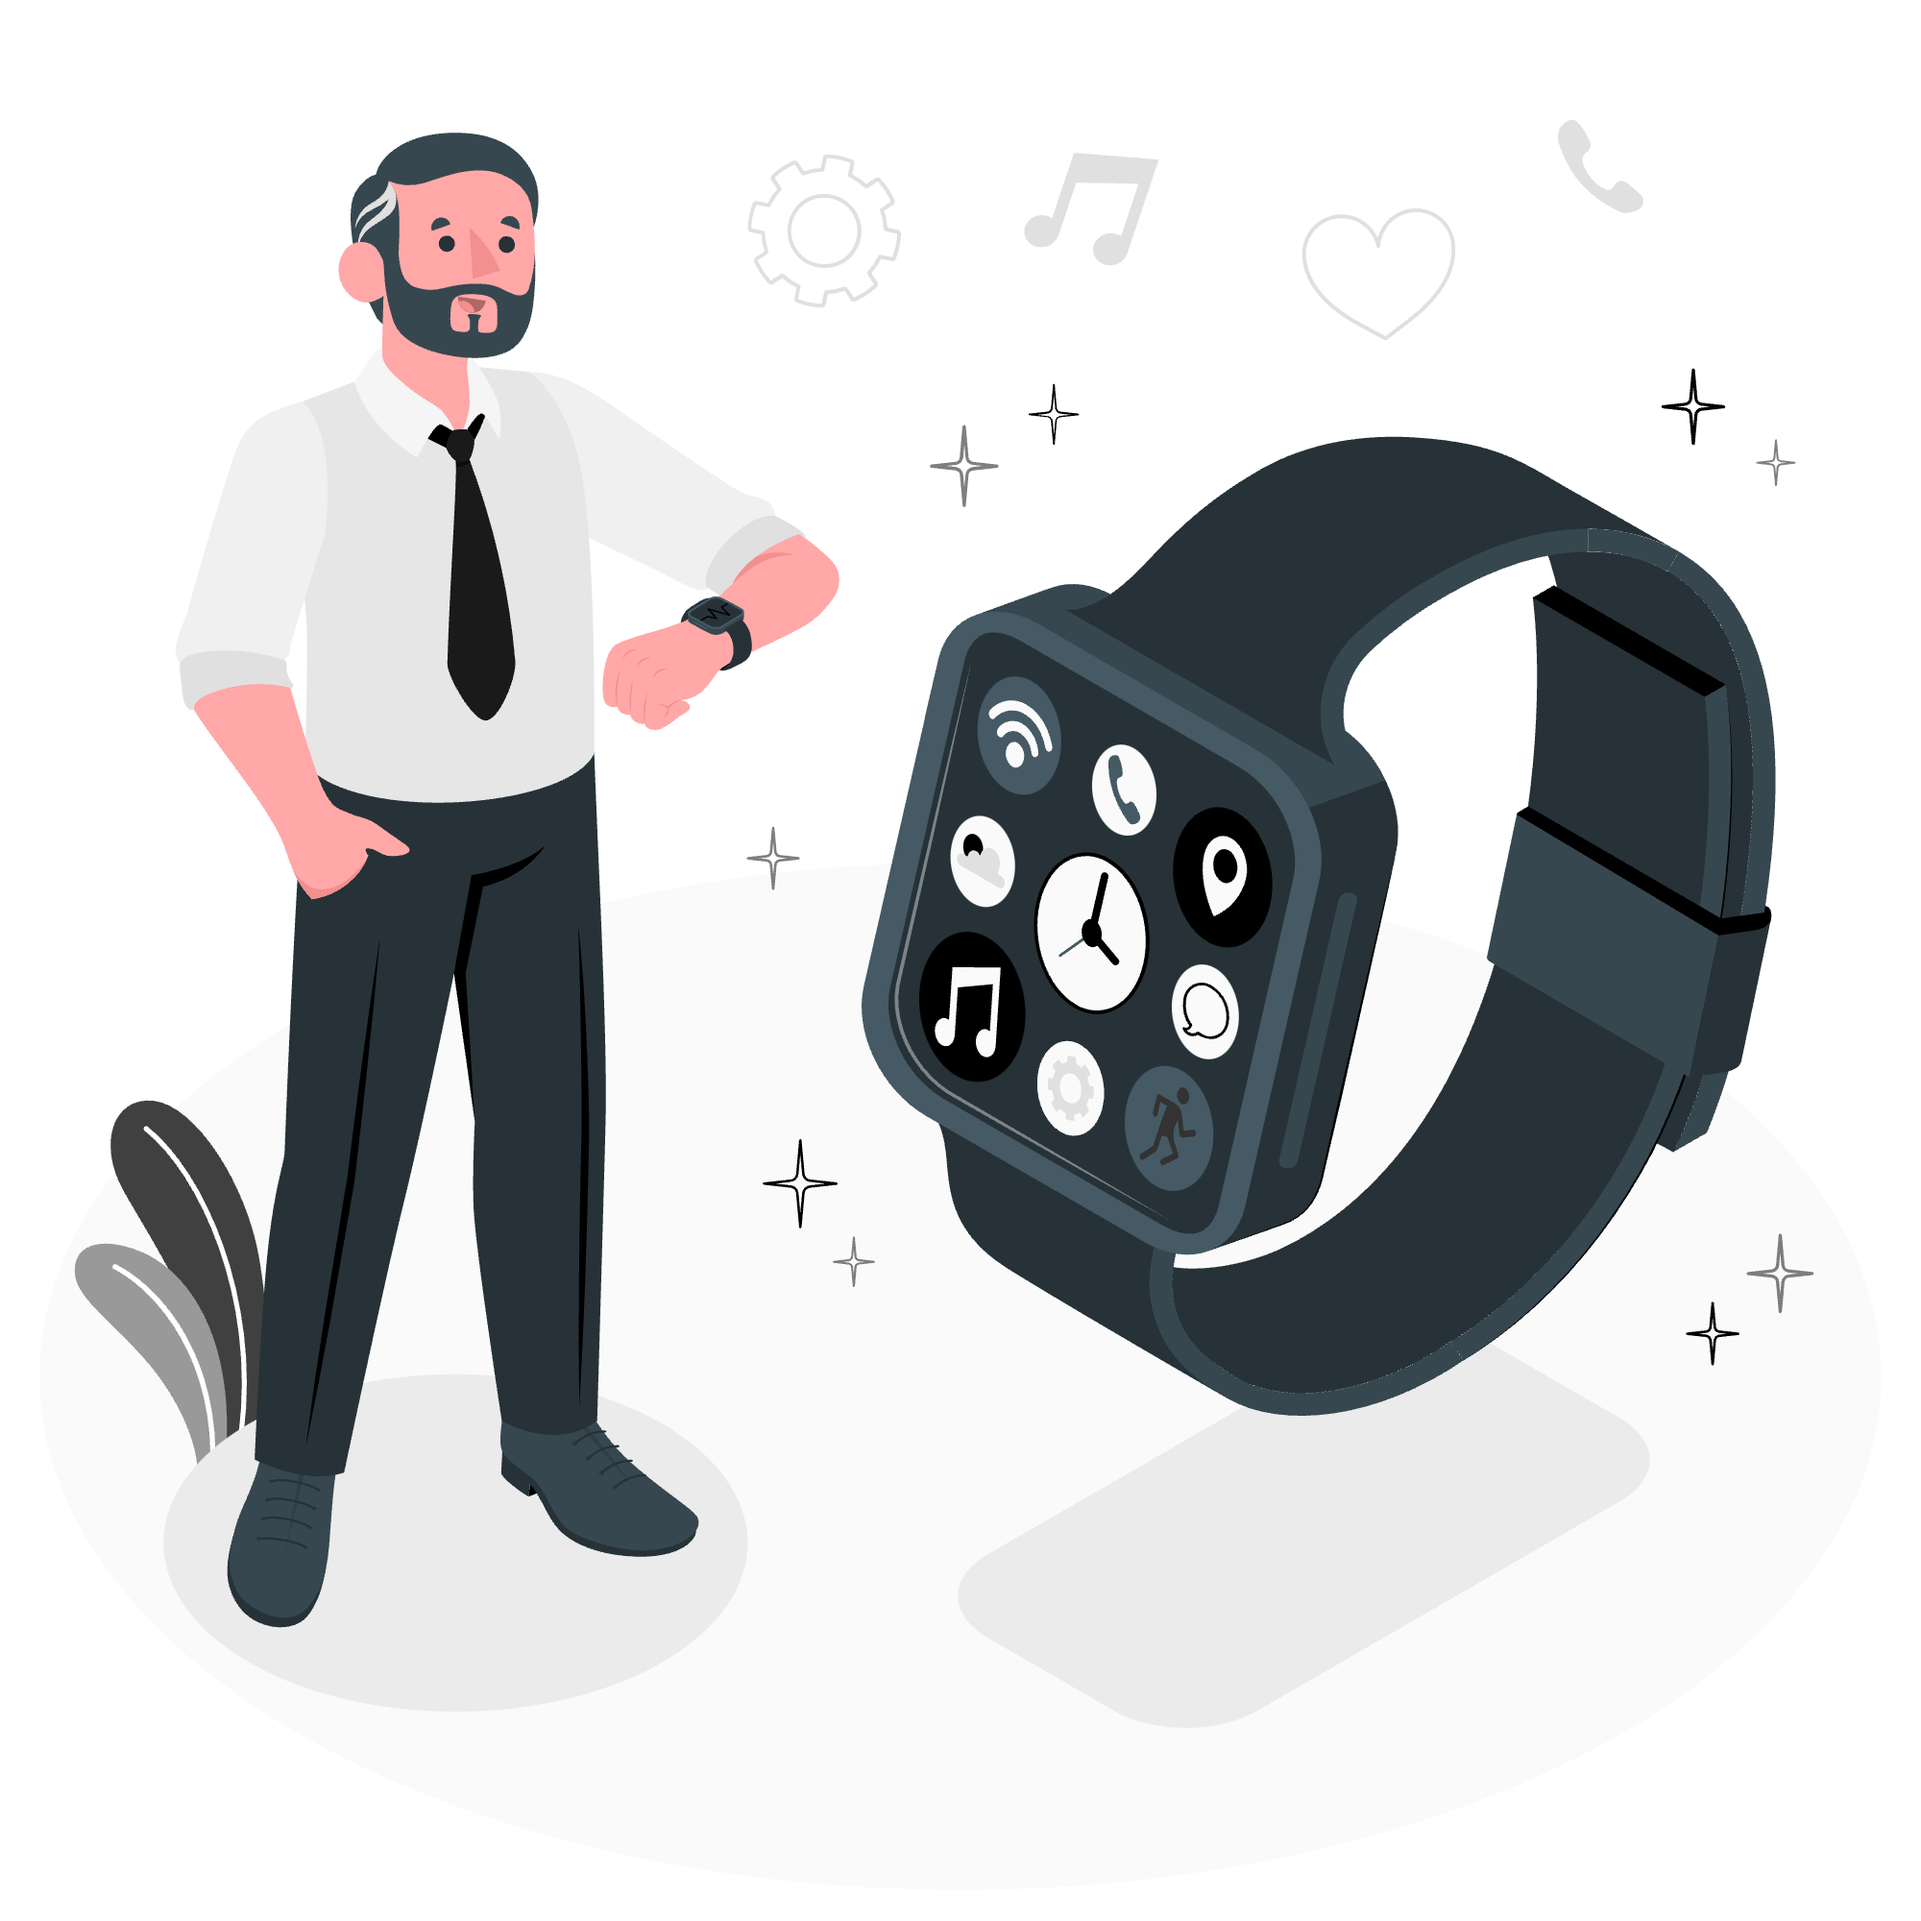
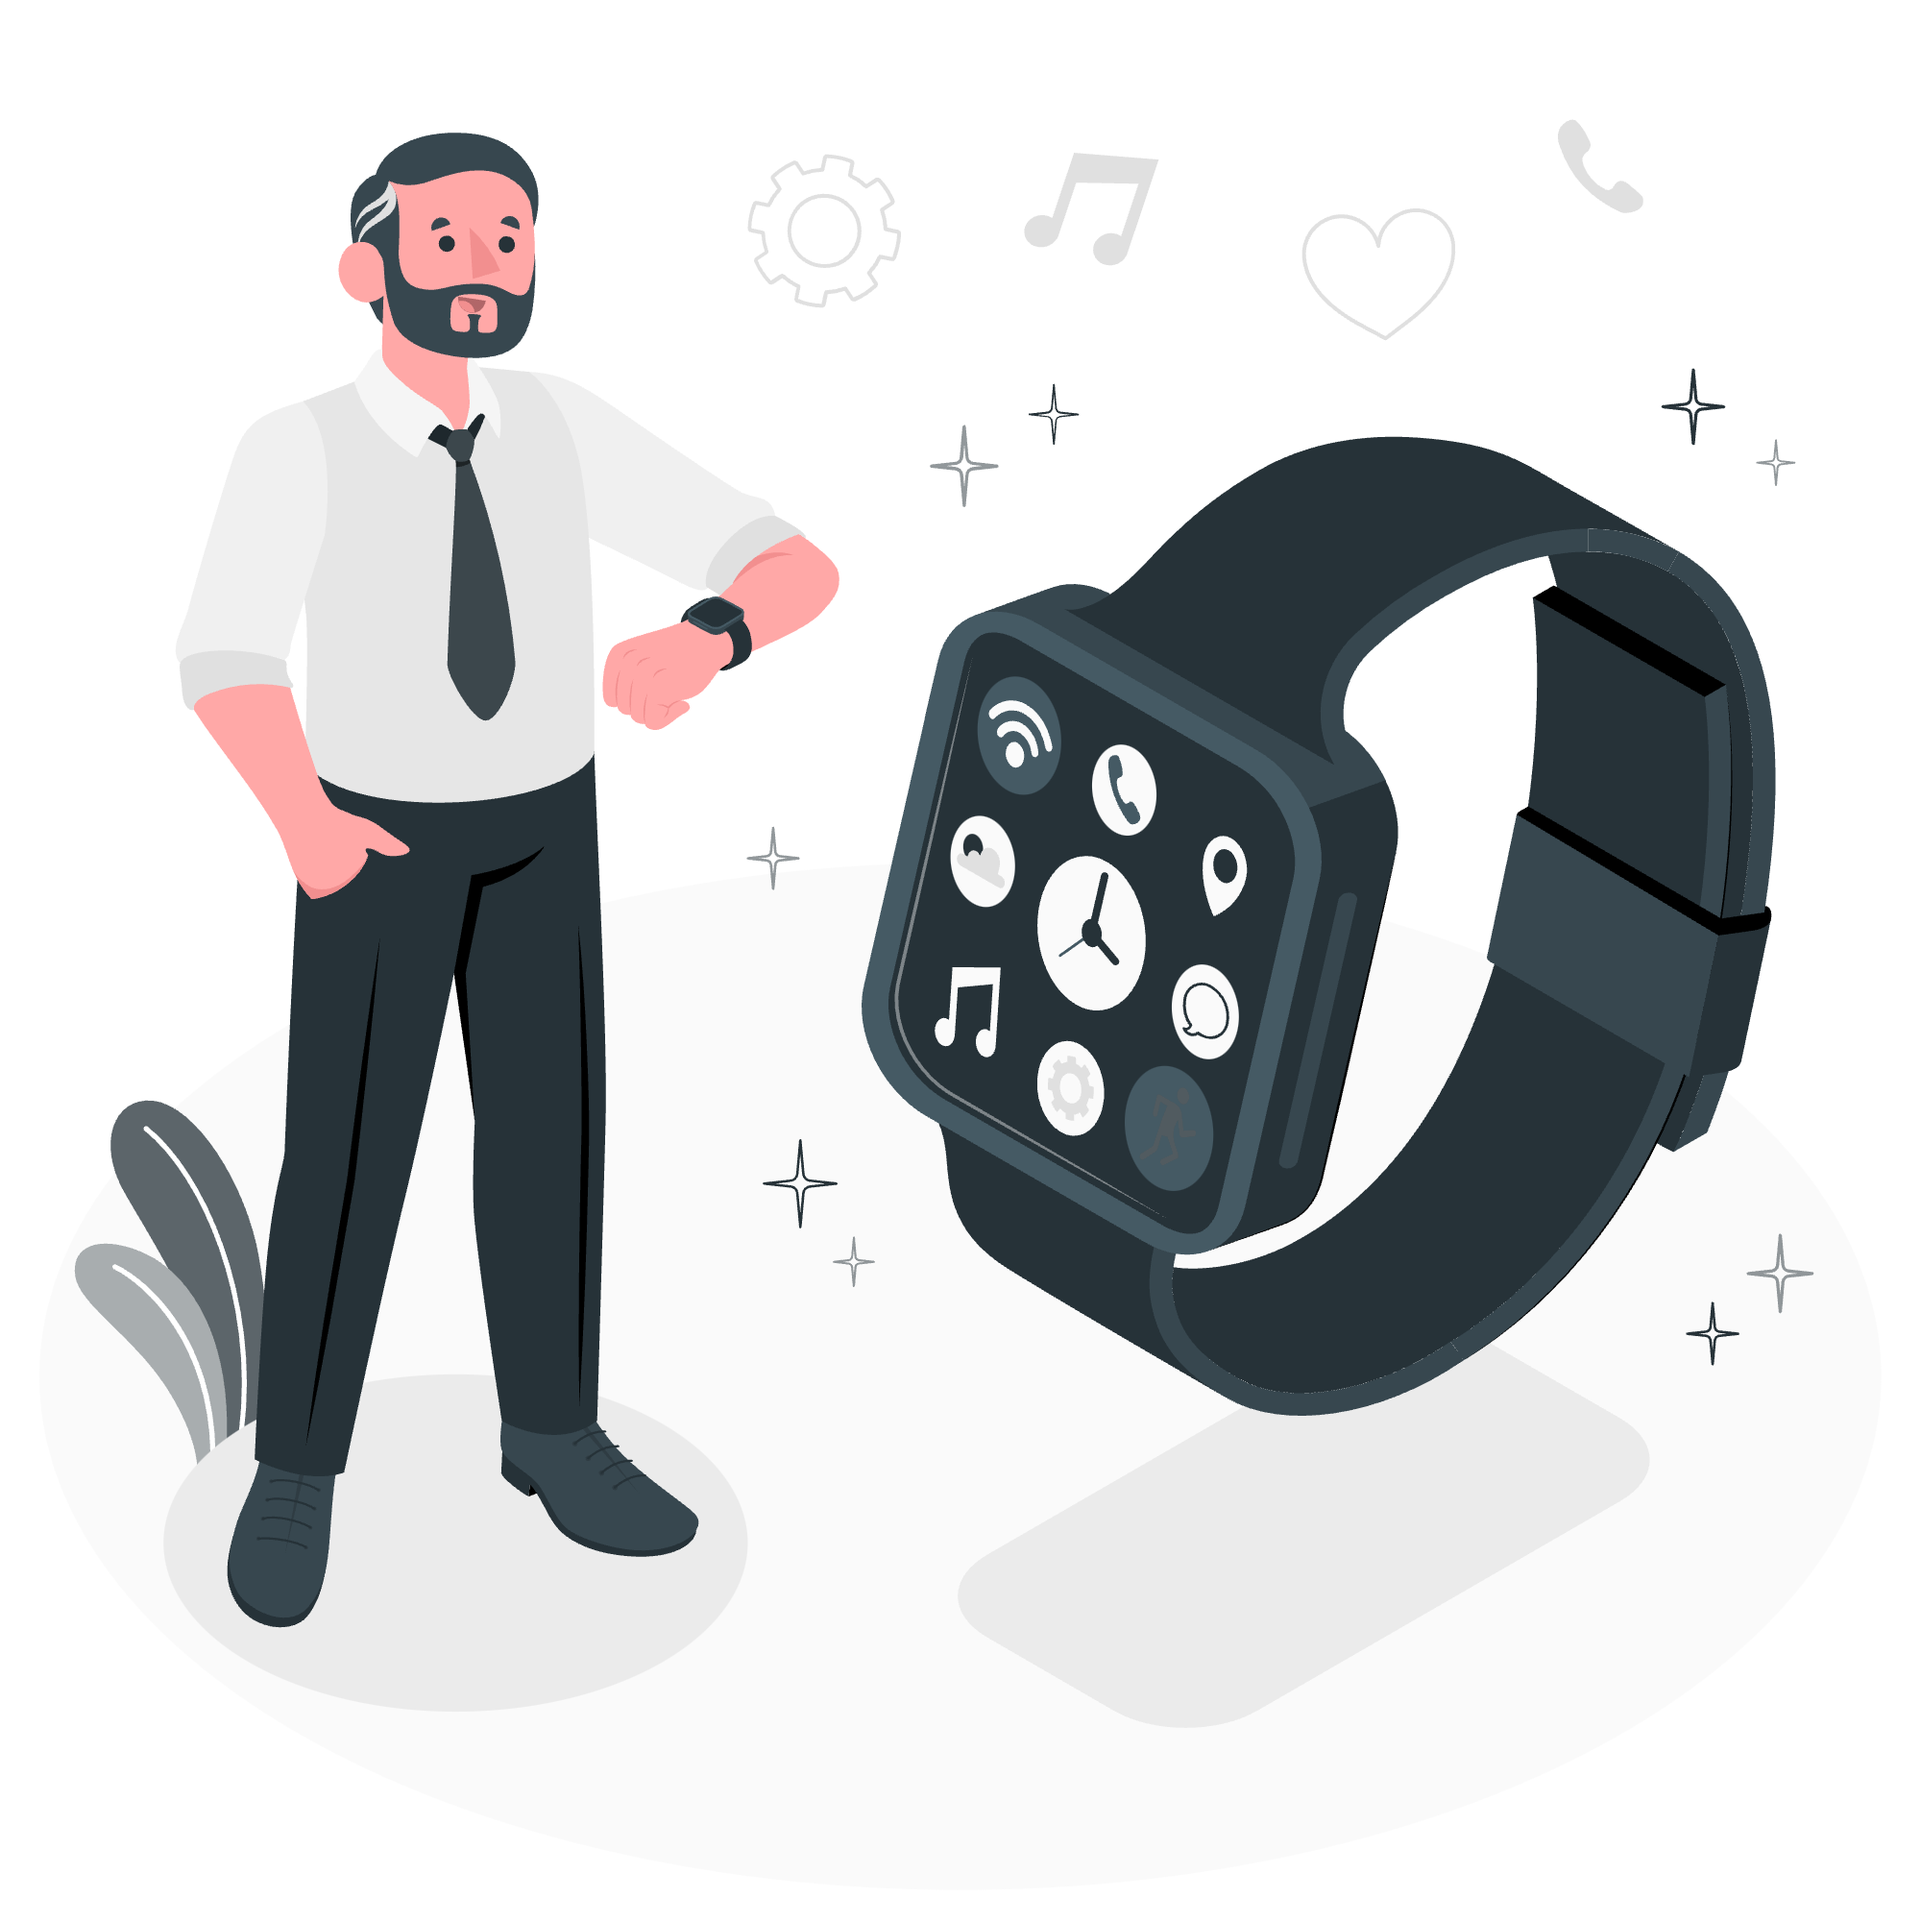
kkk

diff --git a/lib/palette.dart b/lib/palette.dart
@@ -2,18 +2,18 @@ import 'package:flutter/material.dart';
 
 class Palette {
   static const MaterialColor kToDark = MaterialColor(
-    0xff000000,
+    0xff263238,
     <int, Color>{
-      50: Color(0xffffffff), //10%
-      100: Color(0xffe6e6e6), //20%
-      200: Color(0xffcccccc), //30%
-      300: Color(0xffb3b3b3), //40%
-      400: Color(0xff999999), //50%
-      500: Color(0xff808080), //60%
-      600: Color(0xff666666), //70%
-      700: Color(0xff4d4d4d), //80%
-      800: Color(0xff333333), //90%
-      900: Color(0xff1a1a1a), //100%
+      50: Color(0xffd3d6d7), // 10%
+      100: Color(0xffd3d6d7), // 20%
+      200: Color(0xffbdc1c3), // 30%
+      300: Color(0xffa8adaf), // 40%
+      400: Color(0xff92989b), // 50%
+      500: Color(0xff7c8487), // 60%
+      600: Color(0xff676f73), // 70%
+      700: Color(0xff515a5f), // 80%
+      800: Color(0xff3b464b), // 90%
+      900: Color(0xff263238), // 100%
     },
   );
 }
